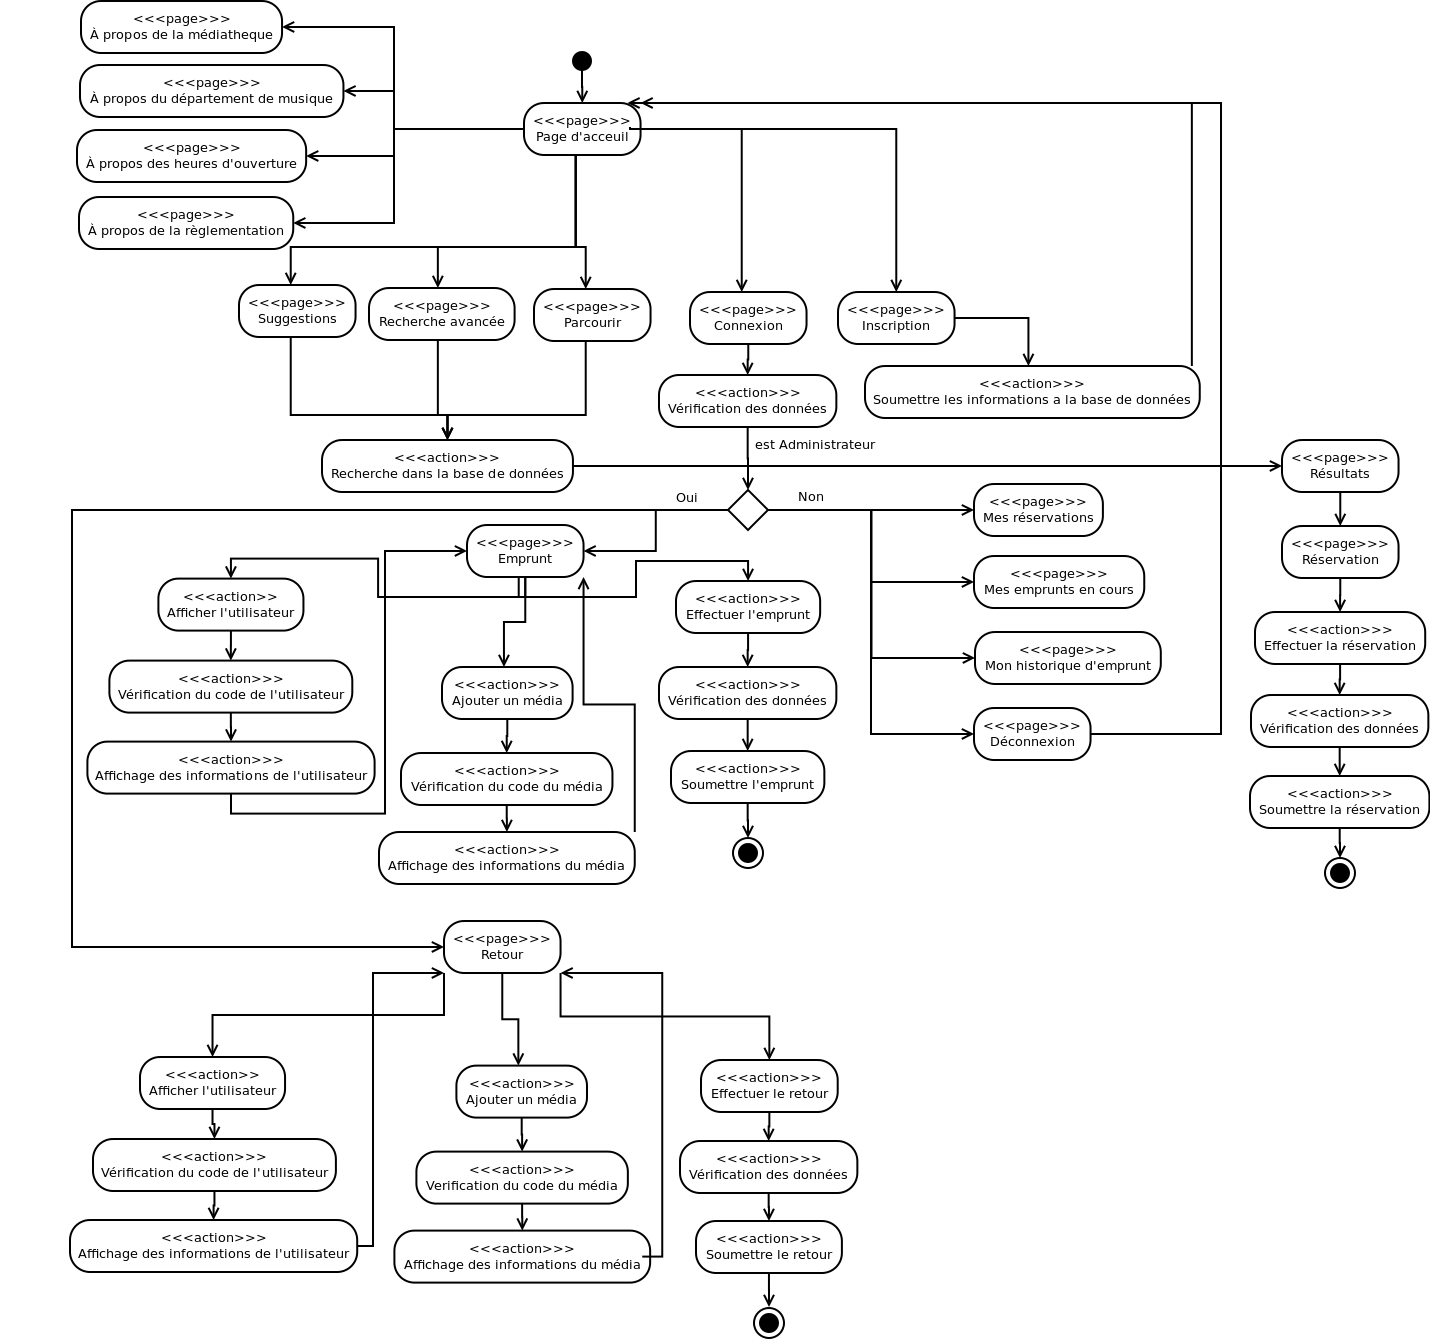
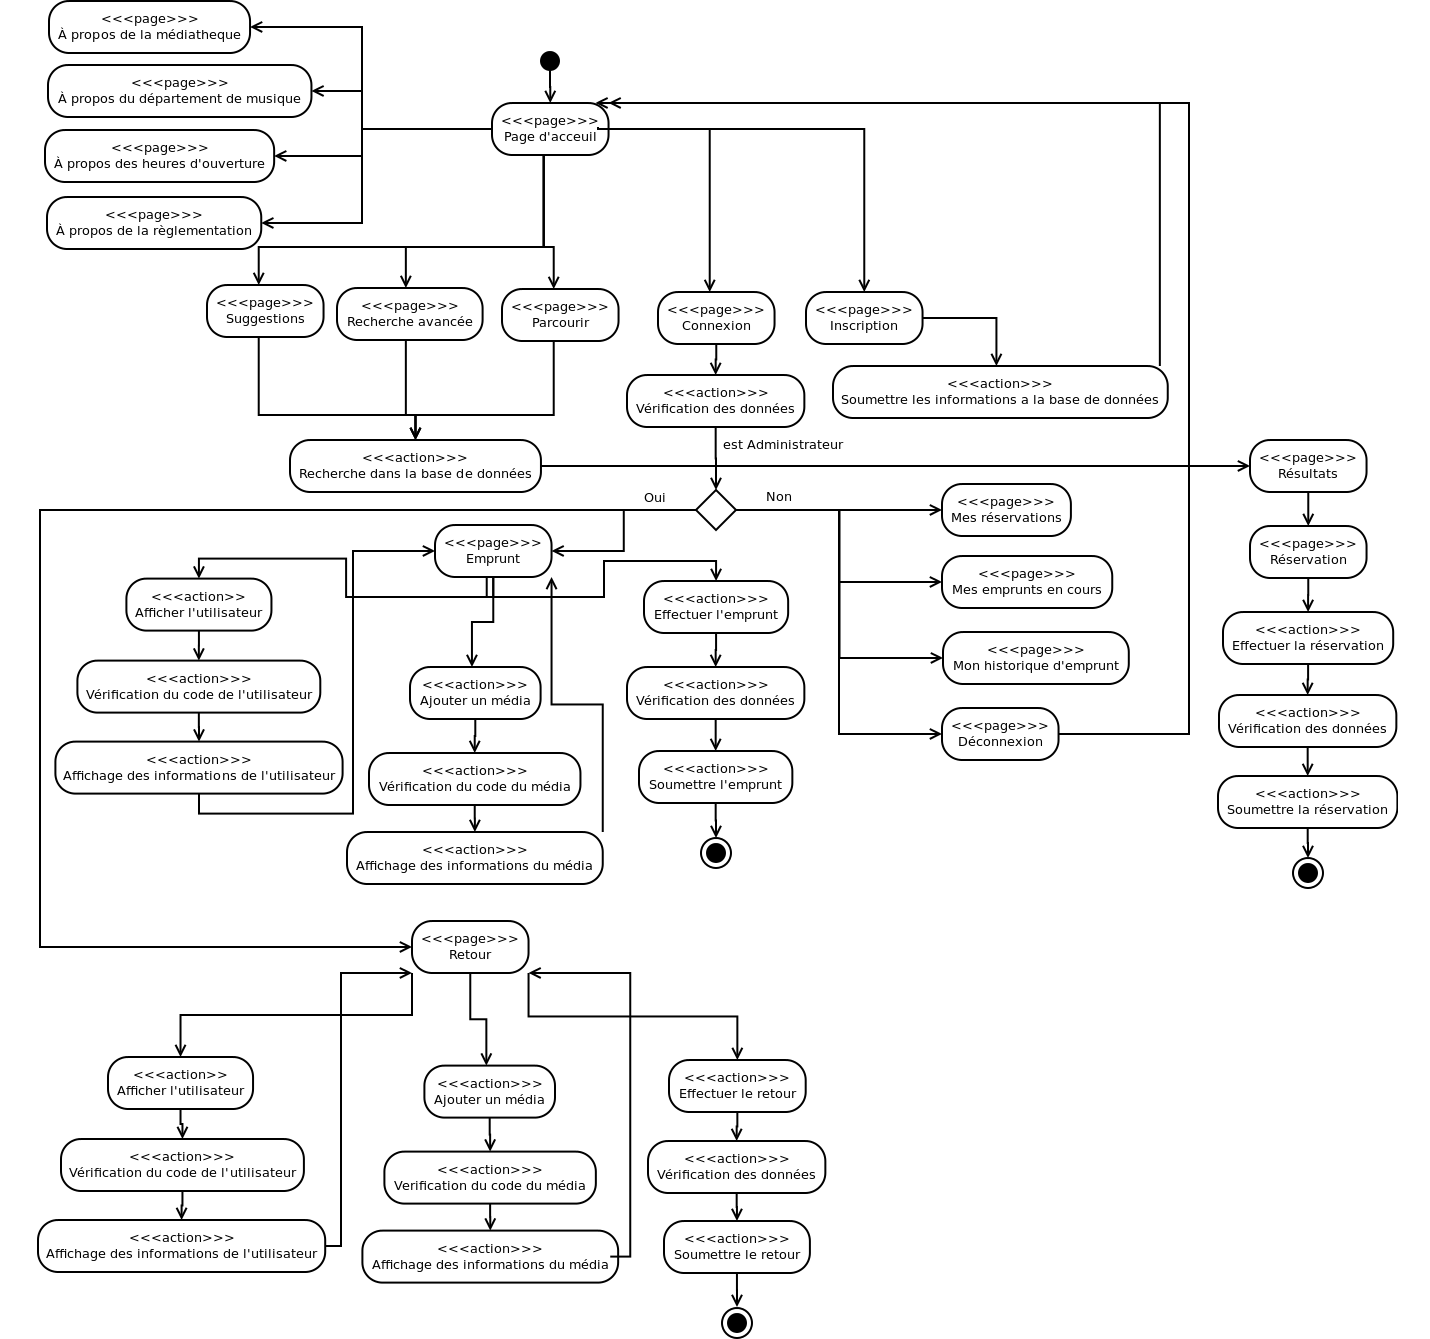
Suppression des screenshots. Modification de l'image du diagramme d'enchainement. Suppression de l'affichage des dimensions des fenetres du css.

diff --git a/css/content.css b/css/content.css
@@ -119,11 +119,6 @@ th.headerSortDown
 	{
 		width:auto;
 	}
-
-	#content h2:after
-	{
-		content: " 1280x800";
-	}
 }
 
 @media (max-width:1024px)
@@ -132,11 +127,6 @@ th.headerSortDown
 	{
 		width:auto;
 	}
-
-	#content h2:after
-	{
-		content: " 1024x768";
-	}
 }
 
 @media (max-width:800px)
@@ -144,11 +134,6 @@ th.headerSortDown
 	#content
 	{
 		width:auto;
-	}
-
-	#content h2:after
-	{
-		content: " 800x600";
 	}
 }
 
@@ -162,11 +147,6 @@ th.headerSortDown
 	#search-results
 	{
 		margin: 0;
-	}
-
-	#content h2:after
-	{
-		content: " 640x480";
 	}
 
 	#vertical-breadcrumb
